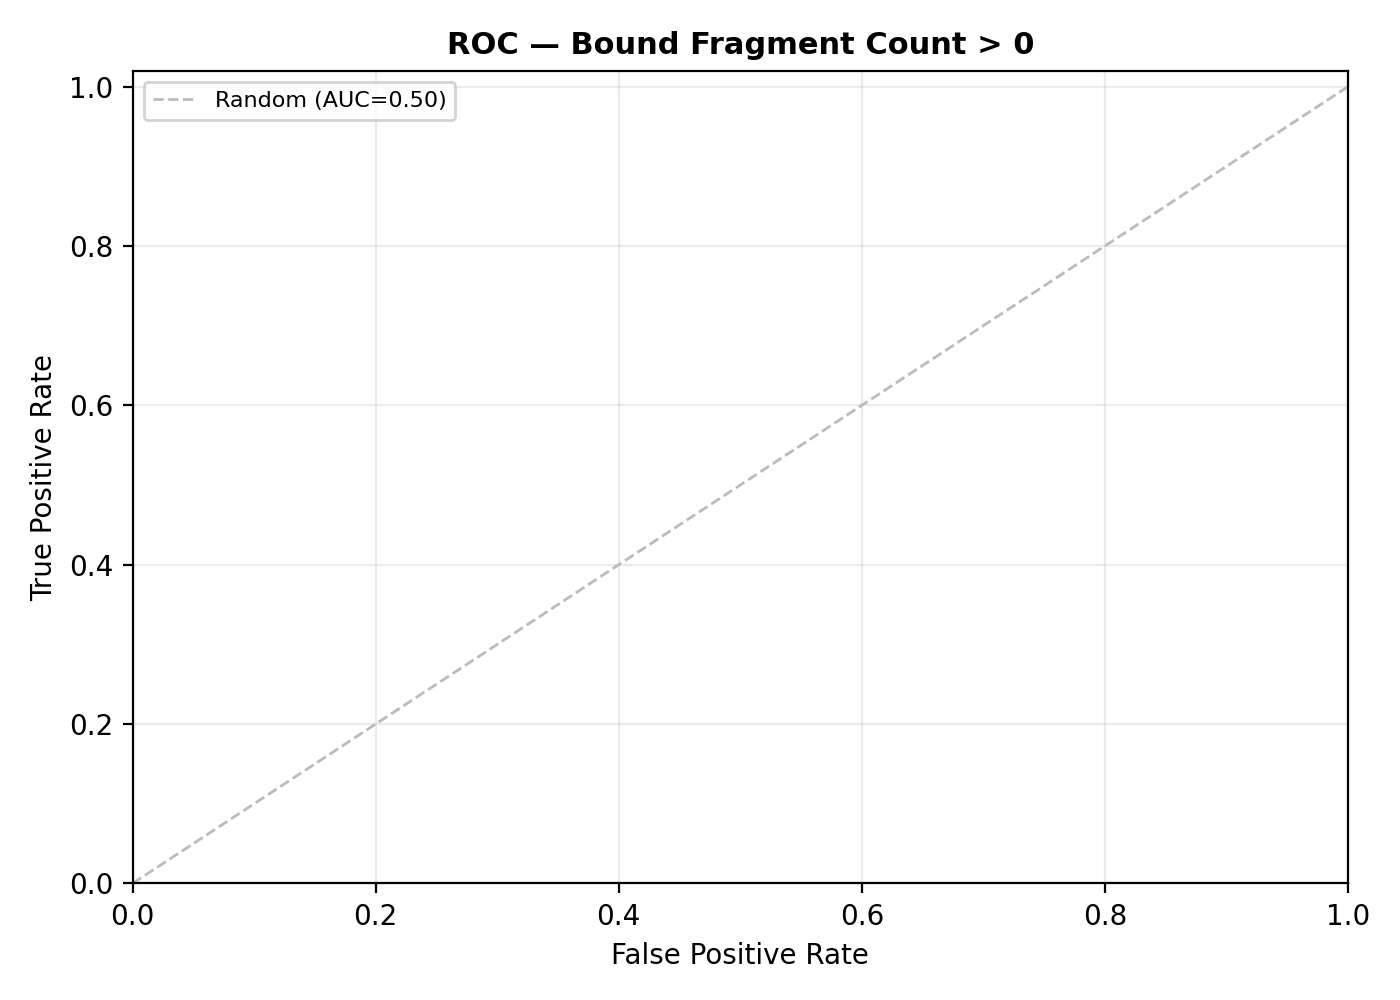
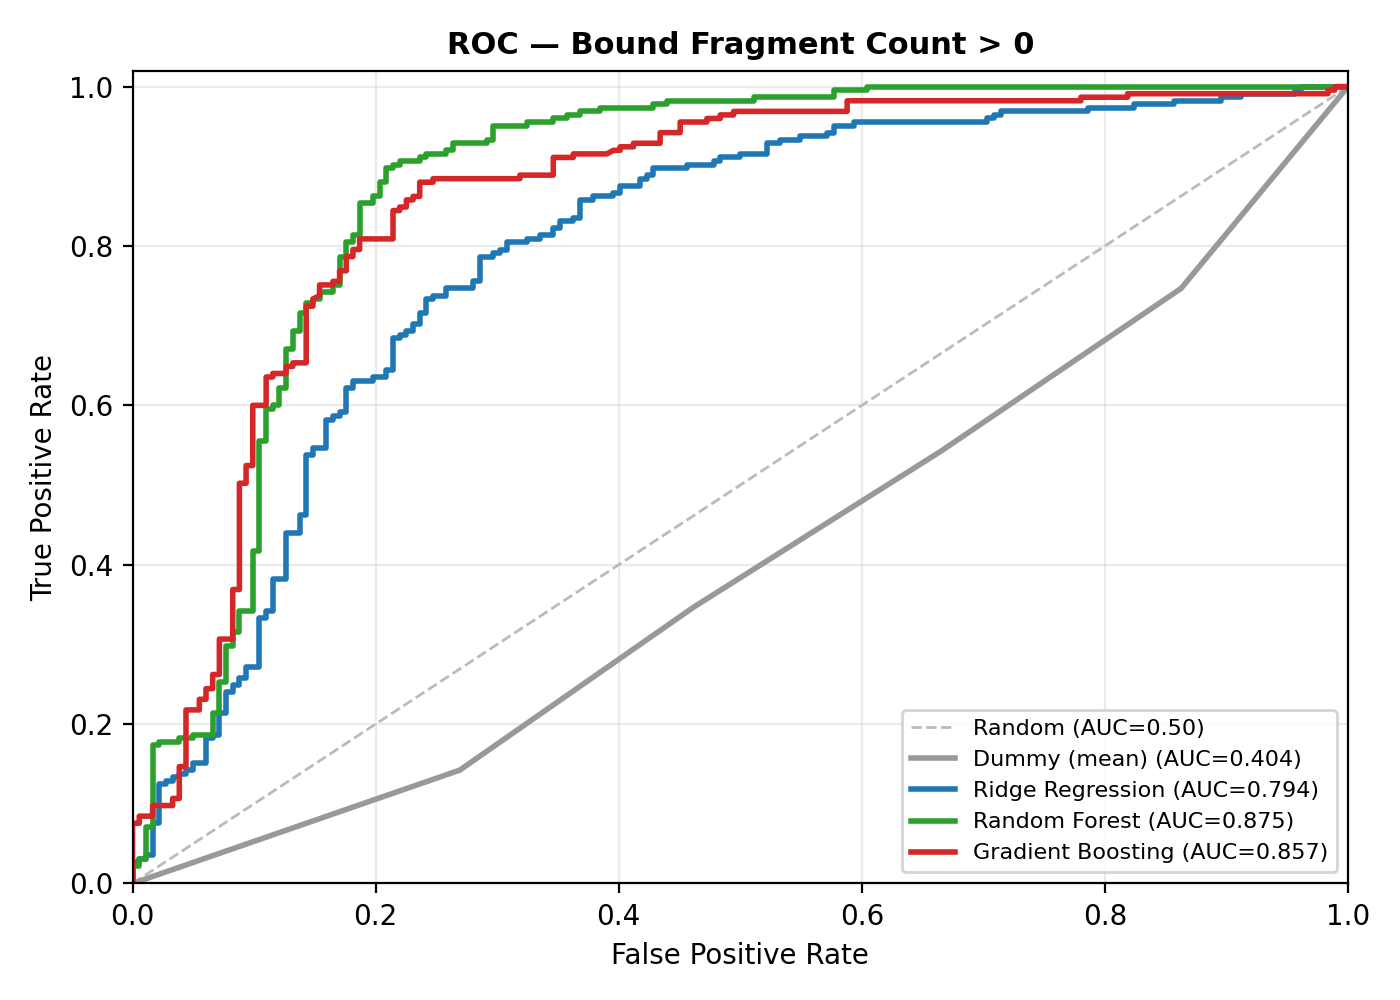
fix: roc plot all models

diff --git a/scripts/plot_roc_curves.py b/scripts/plot_roc_curves.py
@@ -254,13 +254,16 @@ def main() -> None:
 
     # ─── Individual ROC plots (one per target) ─────────────────────────────
     for target_col, target_name, fs_lookup in all_targets:
-        feature_set = best_feature_set(metrics, fs_lookup) if not ("_gt" in target_col) else "with_fof_linking_length"
+        is_derived  = "_gt" in target_col
+        feature_set = "with_fof_linking_length" if is_derived else best_feature_set(metrics, fs_lookup)
         dataset     = "all_successful_runs"
+        model_list  = REGRESSOR_MODELS if is_derived else CLASSIFIER_MODELS
 
         fig, ax = plt.subplots(figsize=(7, 5))
         roc_for_target(
             records, target_col, target_name, feature_set, dataset, ax,
             title=f"ROC — {target_name}",
+            model_list=model_list,
         )
         fname = f"roc_{target_col.replace('/', '_').replace('.','p')}.png"
         fig.tight_layout()
@@ -280,10 +283,13 @@ def main() -> None:
     for ax_idx, ((target_col, target_name, fs_lookup), title) in enumerate(
         zip(all_targets, titles)
     ):
-        feature_set = best_feature_set(metrics, fs_lookup) if not ("_gt" in target_col) else "with_fof_linking_length"
+        is_derived  = "_gt" in target_col
+        feature_set = "with_fof_linking_length" if is_derived else best_feature_set(metrics, fs_lookup)
+        model_list  = REGRESSOR_MODELS if is_derived else CLASSIFIER_MODELS
         roc_for_target(
             records, target_col, target_name, feature_set,
             "all_successful_runs", axes_flat[ax_idx], title=title,
+            model_list=model_list,
         )
 
     fig.suptitle("ROC Curves — Four Classification Targets", fontsize=15, y=1.01)
